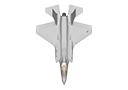
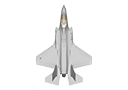
Introduce commands and input handling

Changed region(s): [[0.2812, 0.0444, 0.7188, 0.9556]]

diff --git a/HexEngine/src/source/Game.cpp b/HexEngine/src/source/Game.cpp
@@ -2,7 +2,7 @@
 
 using namespace std;
 
-Game::Game() : mWindow(sf::VideoMode(640, 480), "My Game"), mWorld(mWindow), mText(), mWorldView() {
+Game::Game() : mWindow(sf::VideoMode(640, 480), "My Game"), mWorld(mWindow), mText(), mWorldView(), mPaused(false) {
 
 	textures.load(Textures::Eagle, "Resources/img/plane.png");
 	textures.load(Textures::Desert, "Resources/img/sand.jpg");
@@ -18,7 +18,7 @@ Game::Game() : mWindow(sf::VideoMode(640, 480), "My Game"), mWorld(mWindow), mTe
 	mWorldView.setCenter(100.f,0.f);
 	mPlayer->setPosition(100.f, 0.f);
 
-	mWorldView.setSize(1024, 720);
+	//mWorldView.setSize(1024, 720);
 	//mWorldView.zoom(0.52);
 	
 	sf::Font a = fonts.get(Fonts::Pacifico);
@@ -37,17 +37,22 @@ Game::Game() : mWindow(sf::VideoMode(640, 480), "My Game"), mWorld(mWindow), mTe
 }
 
 void Game::run(){
+
 	sf::Clock clock;
 	sf::Time timeSinceLastUpdate = sf::Time::Zero;
 	while (mWindow.isOpen())
 	{
+		
 		processEvents();
 		timeSinceLastUpdate += clock.restart();
 		while (timeSinceLastUpdate > TimePerFrame)
 		{
 			timeSinceLastUpdate -= TimePerFrame;
+			
+			if (!mPaused)
+				update(TimePerFrame);
+
 			processEvents();
-			update(TimePerFrame);
 		}
 		render();
 	}
@@ -65,24 +70,30 @@ void Game::processEvents(){
 			break;
 
 		case sf::Event::KeyPressed:
-			handlePlayerInput(event.key.code, true);
+			handleKeyEvent(event.key.code);
 			break;
 
-		case sf::Event::KeyReleased:
-			handlePlayerInput(event.key.code, false);
+		case sf::Event::LostFocus:
+			mPaused = true;
 			break;
 
-		case sf::Event::MouseWheelMoved:
-			handleMouseWheel(event.mouseWheel);
+		case sf::Event::GainedFocus:
+			mPaused = false;
 			break;
 		}
+
 	}
 }
 
 void Game::update(sf::Time deltaTime)
 {
+	sf::Vector2i windowCenter(mWindow.getSize() / 2u);
+	sf::Vector2i mousePosition = sf::Mouse::getPosition(mWindow);
+	sf::Vector2i delta = windowCenter - mousePosition;
+	sf::Mouse::setPosition(windowCenter, mWindow);
+	//printf("%i - %i\n",delta.x,delta.y);
 	mWorld.update(deltaTime);
-	/**sf::Vector2f movement(0.f, 0.f);
+	/*sf::Vector2f movement(0.f, 0.f);
 	if (isAccelerating && playerSpeed < 300)
 		playerSpeed += 1.f;
 
@@ -95,7 +106,7 @@ void Game::update(sf::Time deltaTime)
 	if (isRotatingRight)
 		mPlayer->rotate(-1.f*playerSpeed*deltaTime.asSeconds());
 
-	movePlayer(deltaTime);**/
+	movePlayer(deltaTime);*/
 
 		
 }
@@ -112,40 +123,6 @@ void Game::render()
 	//	cout << mPlayer->getWorldPosition().x << "-" << mPlayer->getWorldPosition().y << endl;
 	mWindow.display();
 
-}
-
-void Game::handlePlayerInput(sf::Keyboard::Key key, bool isPressed)
-{
-	if (key == sf::Keyboard::Z)
-		isAccelerating = isPressed;
-	else if (key == sf::Keyboard::S)
-		isSlowingDown = isPressed;
-	else if (key == sf::Keyboard::Q)
-		isRotatingLeft = isPressed;
-	else if (key == sf::Keyboard::D)
-		isRotatingRight = isPressed;
-	
-}
-
-void Game::handleMouseWheel(sf::Event::MouseWheelEvent mouseWheel){
-	static int zoom = 0;
-	int delta = mouseWheel.delta;
-	//cout << zoom << endl;
-
-	if (delta == 1){
-		if (++zoom <= 10)
-			mWorldView.zoom(0.9f);
-		else
-			zoom = 10;
-	}
-
-	else {
-		if (--zoom >= -10)
-			mWorldView.zoom(1.1f);
-		else
-			zoom = -10;
-	}
-	
 }
 
 void Game::movePlayer(sf::Time deltaTime){
@@ -165,4 +142,10 @@ void Game::movePlayer(sf::Time deltaTime){
 	//mWorldView.setRotation(mPlayer->getRotation());
 	mWorldView.move(a * deltaTime.asSeconds());
 
+}
+
+void Game::handleKeyEvent(sf::Keyboard::Key key){
+	if (key == sf::Keyboard::Space){
+		mPaused = !mPaused;
+	}
 }

diff --git a/HexEngine/src/source/World.cpp b/HexEngine/src/source/World.cpp
@@ -2,8 +2,9 @@
 
 World::World(sf::RenderWindow& window) : mWindow(window),
 mWorldView(window.getDefaultView()),
-mWorldBounds(0.f, 0.f, 2000.f, 2000.f),
-mSpawnPosition(mWorldBounds.width / 2, mWorldBounds.height / 2),
+mWorldBounds(0.f, 0.f, mWorldView.getSize().x, 2000.f),
+mSpawnPosition(mWorldView.getSize().x/2, mWorldBounds.height - mWorldView.getSize().y),
+mScrollSpeed(-50.f),
 mPlayerAircraft(nullptr)
 {
 	loadTextures();
@@ -40,14 +41,16 @@ void World::buildScene(){
 	std::unique_ptr<Aircraft> leader(new Aircraft(Aircraft::EAGLE, mTextures));
 	mPlayerAircraft = leader.get();
 	mPlayerAircraft->setPosition(mSpawnPosition);
+	mPlayerAircraft->setVelocity(40.f, mScrollSpeed);
 	mSceneLayers[Air]->attachChild(std::move(leader));
 
 	std::unique_ptr<Aircraft> leftEscort(new Aircraft(Aircraft::RAPTOR, mTextures));
 	leftEscort->setPosition(-80.f, 50.f);
 	mPlayerAircraft->attachChild(std::move(leftEscort));
+	
 
-	std::unique_ptr<Aircraft> rightEscort(new Aircraft(Aircraft::EAGLE, mTextures));
-	rightEscort->setPosition(80.f, 50.f);
+	std::unique_ptr<Aircraft> rightEscort(new Aircraft(Aircraft::RAPTOR, mTextures));
+	rightEscort->setPosition(80.f,50.f);
 	mPlayerAircraft->attachChild(std::move(rightEscort));
 
 }
@@ -58,5 +61,23 @@ void World::draw(){
 }
 
 void World::update(sf::Time dt){
+	mWorldView.move(0.f, mScrollSpeed*dt.asSeconds());
+
+	sf::Vector2f position = mPlayerAircraft->getPosition();
+	sf::Vector2f velocity = mPlayerAircraft->getVelocity();
+
+	if (position.x <= mWorldBounds.left + 150 || position.x >= mWorldBounds.left + mWorldBounds.width - 150){
+		velocity.x = -velocity.x;
+		mPlayerAircraft->setVelocity(velocity);
+	}
+
+	//forward commands to the scene graph
+	while (!mCommandQueue.isEmpty())
+		mSceneGraph.onCommand(mCommandQueue.pop(), dt);
+
 	mSceneGraph.update(dt);
+}
+
+CommandQueue& World::getCommandQueue(){
+	return mCommandQueue;
 }

diff --git a/HexEngine/src/headers/Game.h b/HexEngine/src/headers/Game.h
@@ -2,6 +2,7 @@
 #define GAME_H
 
 #include "World.h"
+#include "util\Category.hpp"
 
 #include <iostream>
 
@@ -15,9 +16,9 @@ private:
 	void processEvents();
 	void update(sf::Time deltaTime);
 	void render();
-	void handlePlayerInput(sf::Keyboard::Key key, bool isPressed);
-	void handleMouseWheel(sf::Event::MouseWheelEvent mouseWheel);
 	void movePlayer(sf::Time deltaTime);
+
+	void handleKeyEvent(sf::Keyboard::Key event);
 
 	sf::RenderWindow mWindow;
 	Aircraft* mPlayer;
@@ -34,6 +35,8 @@ private:
 	sf::View mWorldView;
 
 	World mWorld;
+
+	bool mPaused;
 
 };
 

diff --git a/HexEngine/src/headers/scene/SceneNode.hpp b/HexEngine/src/headers/scene/SceneNode.hpp
@@ -6,6 +6,7 @@
 #include <algorithm>
 #include <assert.h>
 #include <SFML\Graphics.hpp>
+#include "../commands/Command.hpp"
 
 class SceneNode : public sf::Transformable, public sf::Drawable, private sf::NonCopyable {
 
@@ -21,6 +22,10 @@ public:
 
 	sf::Transform getWorldTransform() const;
 	sf::Vector2f getWorldPosition() const;
+
+	virtual unsigned int getCategory() const;
+
+	void onCommand(const Command& command, sf::Time dt);
 
 private:
 	virtual void draw(sf::RenderTarget& target, sf::RenderStates states) const;

diff --git a/HexEngine/src/headers/World.h b/HexEngine/src/headers/World.h
@@ -7,6 +7,7 @@
 #include "scene\SceneNode.hpp"
 #include "scene\SpriteNode.hpp"
 #include "entities\Aircraft.hpp"
+#include "commands\CommandQueue.hpp"
 #include <array>
 
 
@@ -15,6 +16,8 @@ public:
 	explicit World(sf::RenderWindow& window);
 	void update(sf::Time dt);
 	void draw();
+
+	CommandQueue& getCommandQueue();
 
 private:
 	void loadTextures();
@@ -38,6 +41,8 @@ private:
 	sf::Vector2f mSpawnPosition;
 	float mScrollSpeed;
 	Aircraft* mPlayerAircraft;
+
+	CommandQueue mCommandQueue;
 	
 	
 };

diff --git a/HexEngine/src/source/scene/SceneNode.cpp b/HexEngine/src/source/scene/SceneNode.cpp
@@ -63,3 +63,15 @@ sf::Transform SceneNode::getWorldTransform() const{
 sf::Vector2f SceneNode::getWorldPosition() const{
 	return getWorldTransform() * sf::Vector2f();
 }
+
+unsigned int SceneNode::getCategory() const{
+	return Category::Scene;
+}
+
+void SceneNode::onCommand(const Command& command, sf::Time dt){
+	if (command.category & getCategory())
+		command.action(*this, dt);
+
+	for (auto child = mChildren.begin(); child != mChildren.end(); ++child)
+		(*child)->onCommand(command, dt);
+}

diff --git a/HexEngine/src/source/entities/Aircraft.cpp b/HexEngine/src/source/entities/Aircraft.cpp
@@ -24,3 +24,15 @@ void Aircraft::drawCurrent(sf::RenderTarget& target, sf::RenderStates states) co
 	target.draw(mSprite, states);
 }
 
+unsigned int Aircraft::getCategory() const{
+	switch (mType){
+	case EAGLE:
+		return Category::PlayerAircraft;
+
+	case RAPTOR:
+		return Category::AlliedAircraft;
+
+	default:
+		return Category::EnemyAircraft;
+	}
+}

diff --git a/HexEngine/src/source/commands/CommandQueue.cpp b/HexEngine/src/source/commands/CommandQueue.cpp
@@ -1,0 +1,15 @@
+#include "../../headers/commands/CommandQueue.hpp"
+
+void CommandQueue::push(const Command& command){
+	mQueue.push(command);
+}
+
+Command CommandQueue::pop(){
+	Command command = mQueue.front();
+	mQueue.pop();
+	return command;
+}
+
+bool CommandQueue::isEmpty() const{
+	return mQueue.empty();
+}

diff --git a/HexEngine/src/headers/commands/Command.hpp b/HexEngine/src/headers/commands/Command.hpp
@@ -1,0 +1,16 @@
+#ifndef COMMAND_HPP
+#define COMMAND_HPP
+
+#include "../util/Category.hpp"
+#include "SFML\System\Time.hpp"
+#include <functional>
+//#include <cassert>
+
+class SceneNode;
+
+struct Command{
+	Command();
+	std::function<void(SceneNode&, sf::Time)> action;
+	unsigned int category;
+};
+#endif

diff --git a/HexEngine/src/headers/Player.hpp b/HexEngine/src/headers/Player.hpp
@@ -1,0 +1,13 @@
+#ifndef PLAYER_HPP
+#define PLAYER_HPP
+
+#include "SFML\Graphics.hpp"
+#include "commands\CommandQueue.hpp"
+
+class Player{
+public:
+	void handleEvents(const sf::Event& event, CommandQueue& commands);
+	void handleRealTimeInputs(CommandQueue& commands);
+};
+
+#endif

diff --git a/HexEngine/src/headers/commands/CommandQueue.hpp b/HexEngine/src/headers/commands/CommandQueue.hpp
@@ -1,0 +1,17 @@
+#ifndef COMMANDQUEUE_HPP
+#define COMMANDQUEUE_HPP
+
+#include "Command.hpp"
+#include <queue>
+
+class CommandQueue{
+public:
+	void push(const Command& command);
+	Command pop();
+	bool isEmpty() const;
+
+private:
+	std::queue<Command> mQueue;
+};
+
+#endif

diff --git a/HexEngine/src/headers/entities/Aircraft.hpp b/HexEngine/src/headers/entities/Aircraft.hpp
@@ -16,6 +16,7 @@ public:
 	explicit Aircraft(Type type);
 	Aircraft(Type type, TextureHolder& textures);
 	virtual void drawCurrent(sf::RenderTarget& target, sf::RenderStates states) const;
+	virtual unsigned int getCategory() const;
 
 private:
 	Type mType;
